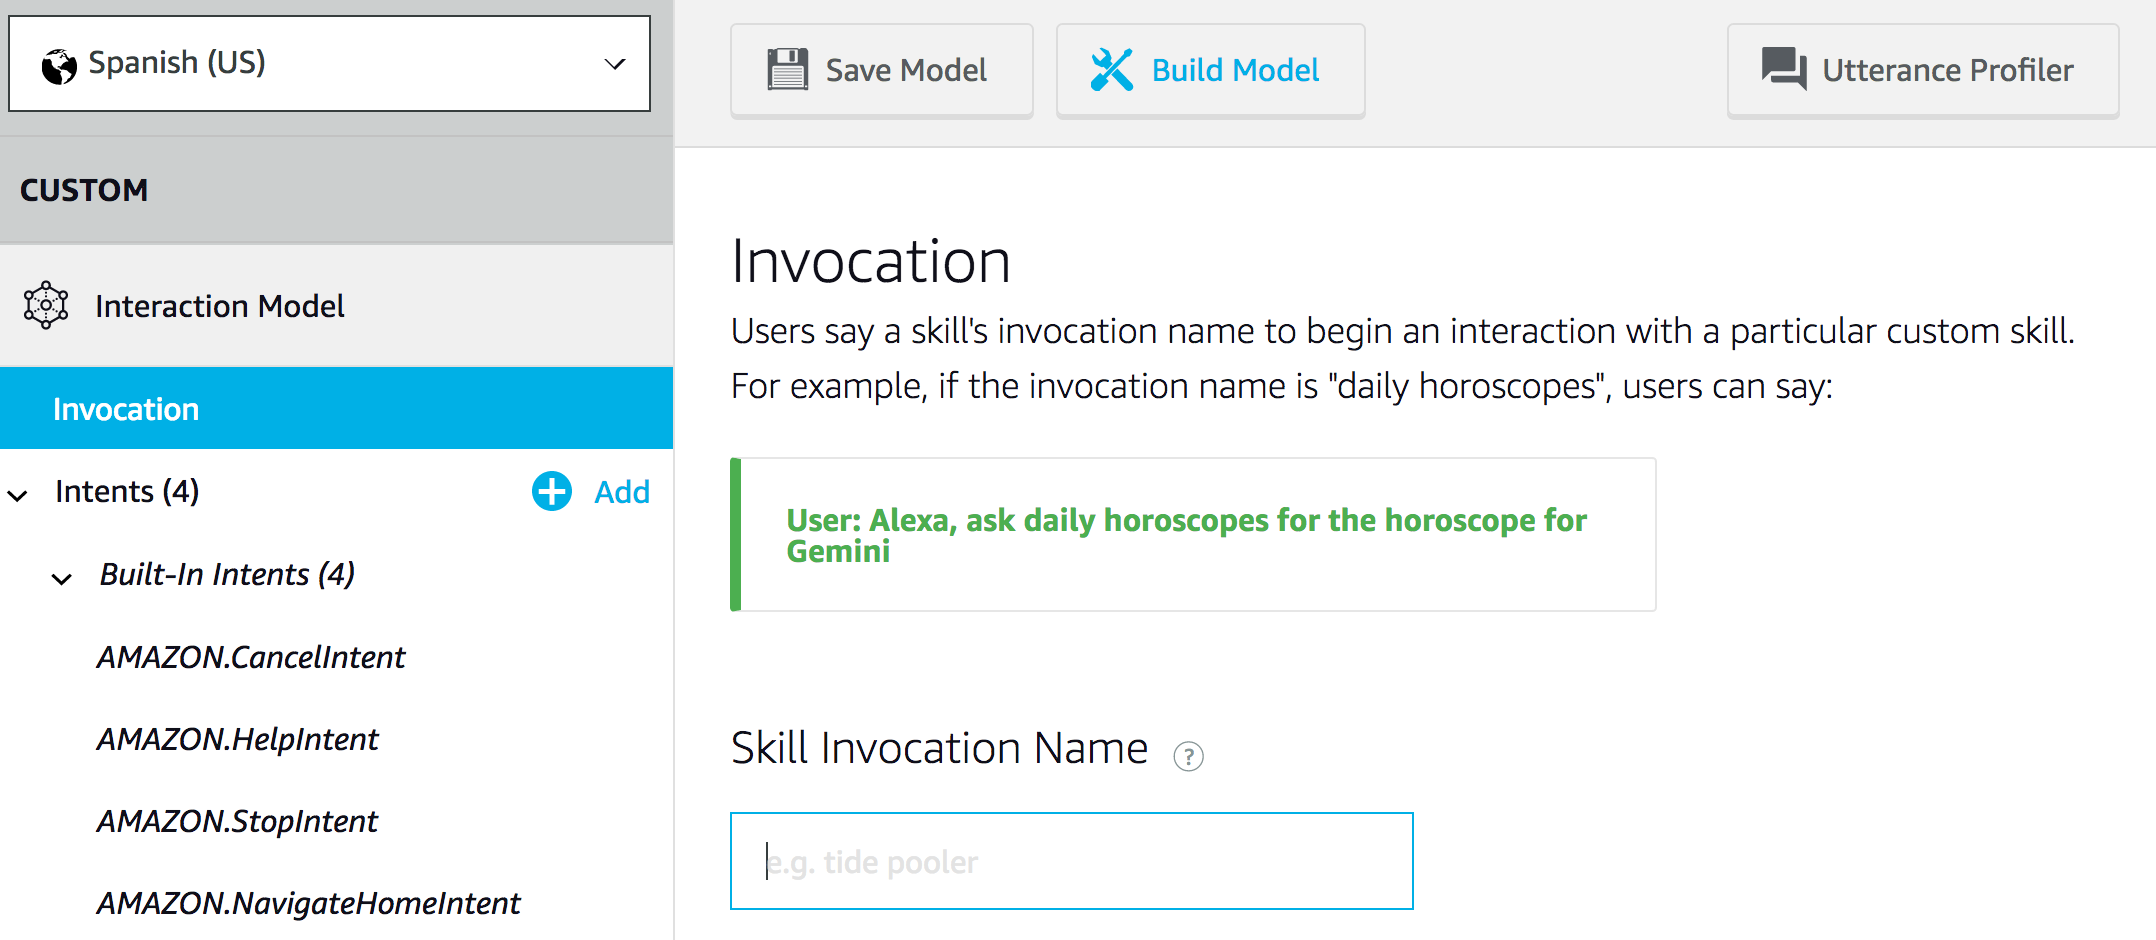
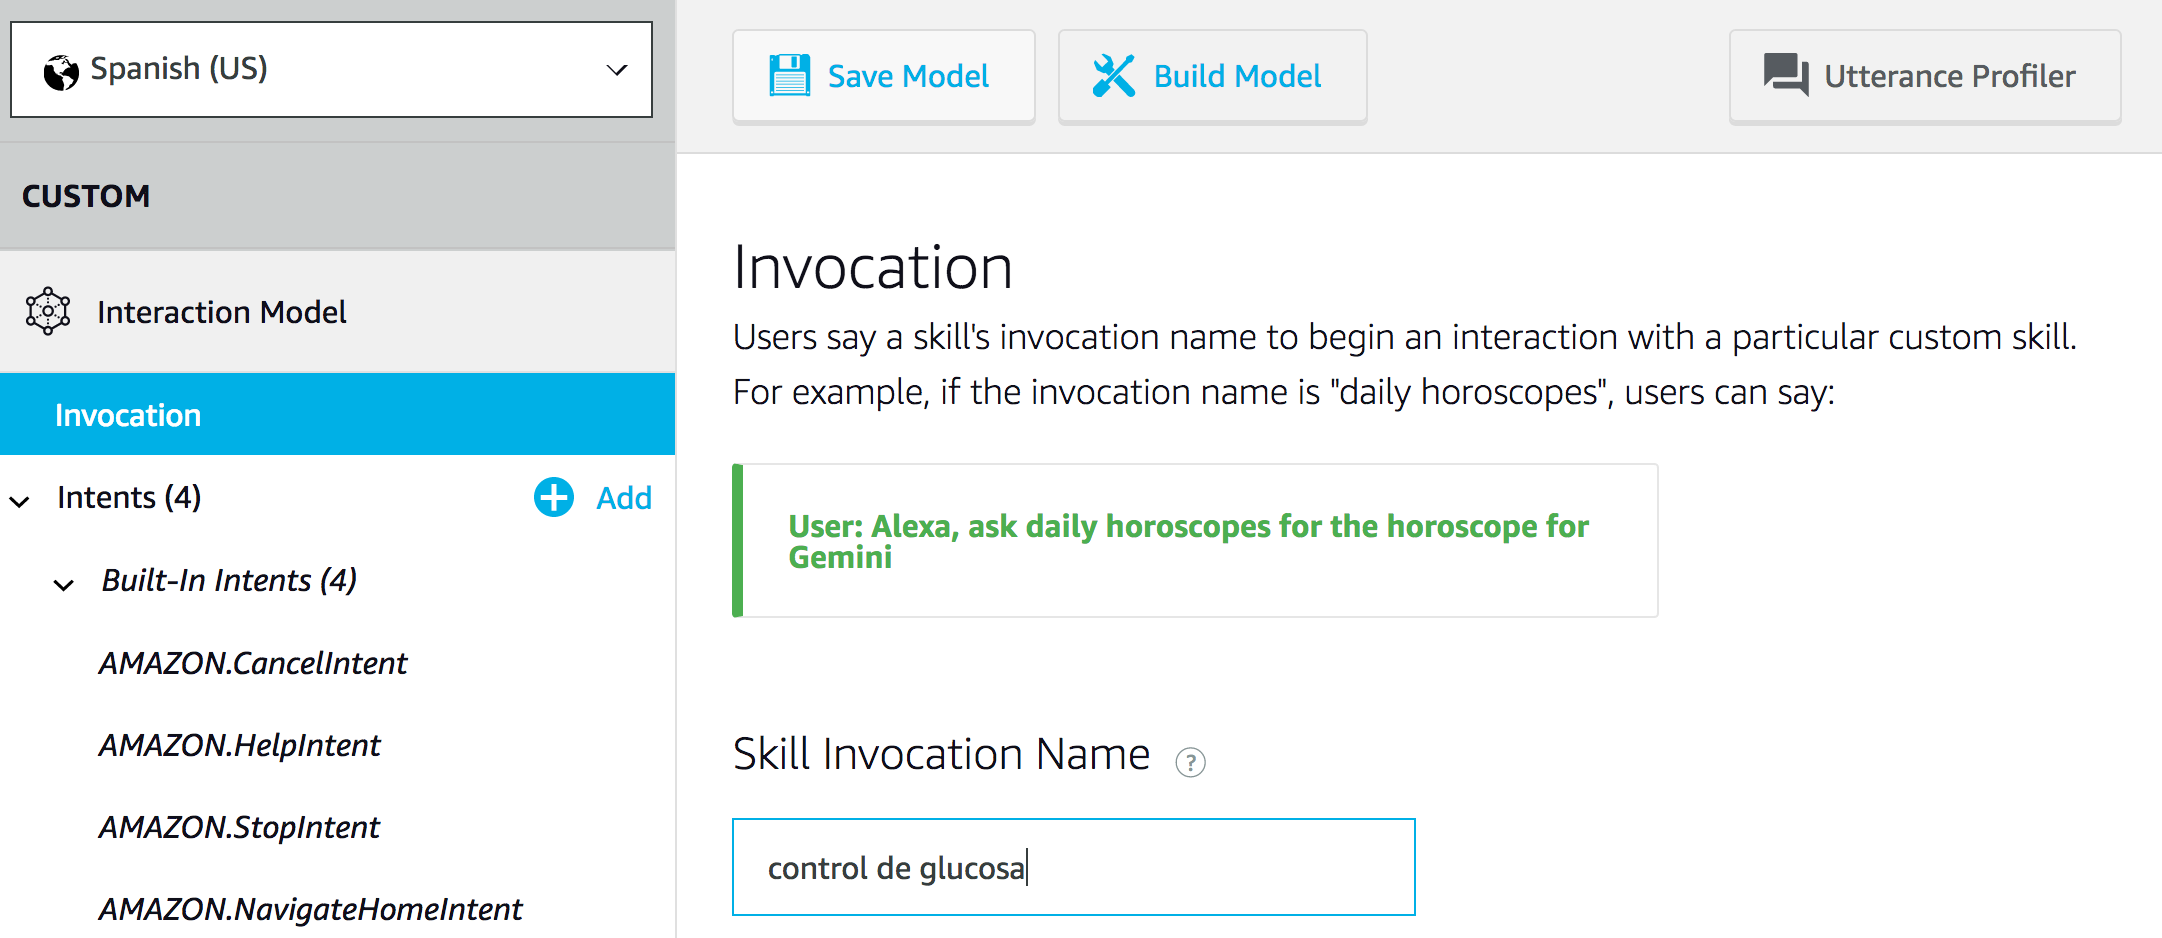
ok

diff --git a/w07-alexa-skill/README.md b/w07-alexa-skill/README.md
@@ -26,7 +26,22 @@ Now let's have some fun doing an Alexa Skill to interact with your glucose data.
 
 ![image](images/06.png) 
 
-### 7. Let's configure the Invocation Name. This will be used like: "Alexa, open <Invocation Name>":
+### 7. Let's configure the Invocation Name and click "Save Model". This will be used like: "Alexa, abrir Control de Glucosa":
 
 ![image](images/07.png)
 
+### 8. Now we need to setup our intents, intents represents a communication between Alexa and the user. Intents have a name and also one or more utterances (phrases, expression). Click "+Add Intent" to setup our first intent.
+
+![image](images/08.png)
+
+### 9. glucose_status this intent is simple (without parameters / slot!) and will bring the average glucose.
+
+![image](images/09.png)
+
+### 10. glucose_status_hour. This intent will has a slot / parameter called "{hour}" and you must setup the slot as AMAZON.NUMBER
+
+![image](images/10.png)
+
+### 11. glucose_add. This intent allows the user to make a new glucose input and it has a slot as well called glucosa that must be configured as AMAZON.NUMBER
+
+![image](images/11.png)
